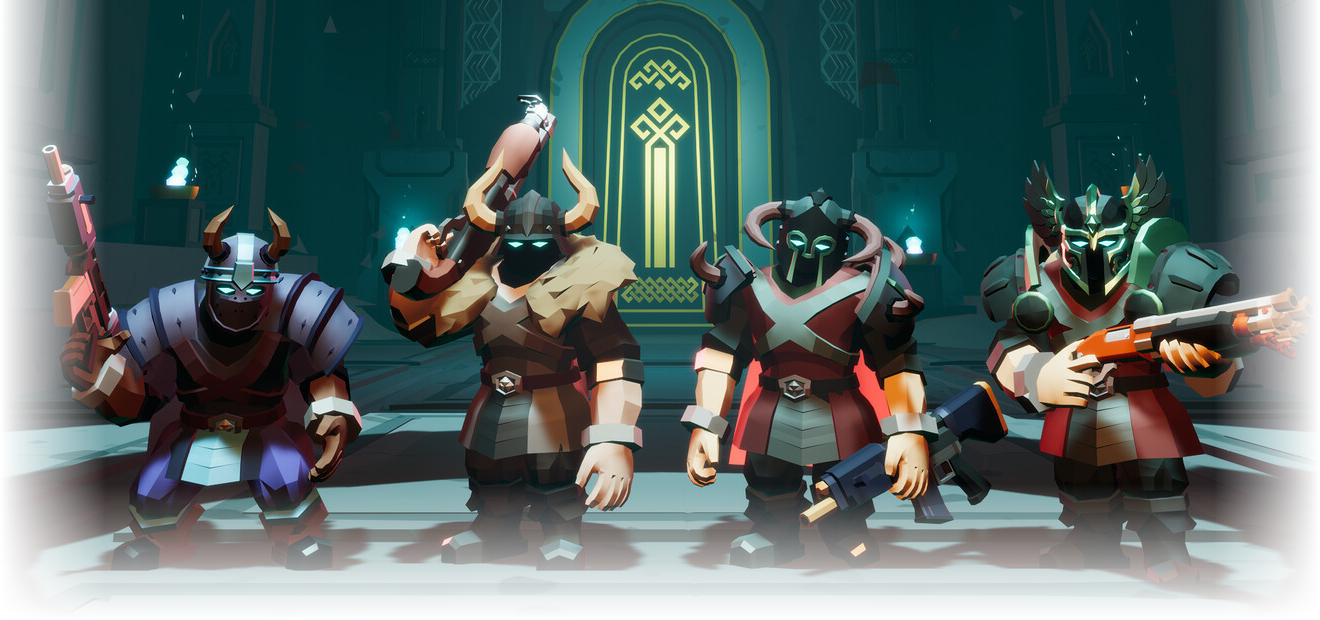
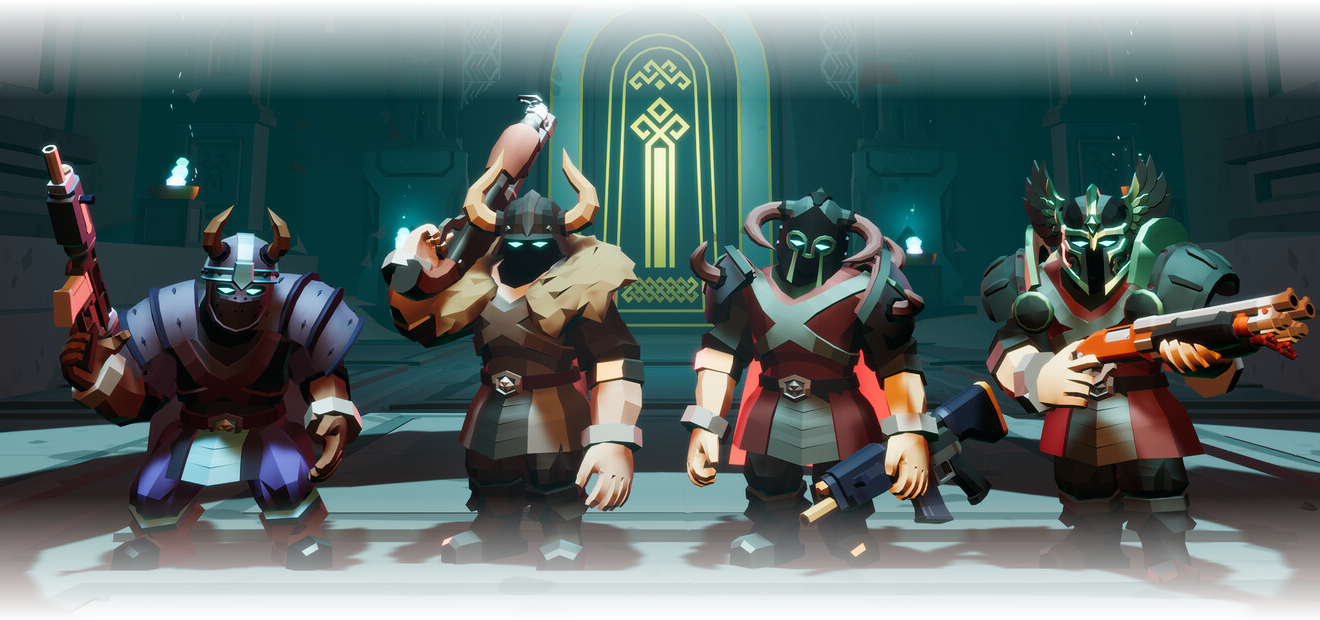
Keep the war band clear of the shield wall

Changed region(s): [[0.0, 0.0, 1.0, 0.9806]]

diff --git a/draft/style.css b/draft/style.css
@@ -48,13 +48,13 @@ p{margin:0 0 14px}
 .helm{position:absolute;top:64px;width:22vw;height:auto;z-index:1;opacity:.95;filter:drop-shadow(0 10px 20px rgba(0,0,0,.6))}
 .helm-l{left:-3vw}
 .helm-r{right:-3vw;transform:scaleX(-1)}
-.shield{position:absolute;width:32vw;height:32vw;z-index:2;filter:drop-shadow(0 14px 24px rgba(0,0,0,.55))}
+.shield{position:absolute;width:30vw;height:30vw;z-index:2;filter:drop-shadow(0 14px 24px rgba(0,0,0,.55))}
 .s1{left:-13vw;top:-9vw;animation:in-l .45s cubic-bezier(.2,.9,.3,1.15) both}
 .s2{right:-13vw;top:-9vw;animation:in-r .45s cubic-bezier(.2,.9,.3,1.15) both}
-.s3{left:-17vw;top:40%;animation:in-l .5s .05s cubic-bezier(.2,.9,.3,1.15) both}
-.s4{right:-17vw;top:40%;animation:in-r .5s .05s cubic-bezier(.2,.9,.3,1.15) both}
-.s5{left:-2vw;bottom:-17vw;animation:in-b .5s .1s cubic-bezier(.2,.9,.3,1.15) both}
-.s6{right:-2vw;bottom:-17vw;animation:in-b .5s .1s cubic-bezier(.2,.9,.3,1.15) both}
+.s3{left:-19vw;top:38%;animation:in-l .5s .05s cubic-bezier(.2,.9,.3,1.15) both}
+.s4{right:-19vw;top:38%;animation:in-r .5s .05s cubic-bezier(.2,.9,.3,1.15) both}
+.s5{left:-11vw;bottom:-19vw;animation:in-b .5s .1s cubic-bezier(.2,.9,.3,1.15) both}
+.s6{right:-11vw;bottom:-19vw;animation:in-b .5s .1s cubic-bezier(.2,.9,.3,1.15) both}
 @keyframes in-l{from{transform:translateX(-14vw)}to{transform:none}}
 @keyframes in-r{from{transform:translateX(14vw)}to{transform:none}}
 @keyframes in-b{from{transform:translateY(12vw)}to{transform:none}}
@@ -74,13 +74,13 @@ p{margin:0 0 14px}
   text-shadow:0 4px 0 #0a1214,0 14px 30px rgba(0,0,0,.6)}
 .tag{font-family:var(--ko);font-size:clamp(18px,2.2vw,28px);color:var(--gold2);margin:6px 0 14px;text-shadow:0 3px 0 #0a1214}
 .cta{display:flex;gap:14px;justify-content:center;flex-wrap:wrap}
-.warband{position:relative;z-index:4;display:block;width:min(66vw,940px);margin:-2vw auto 0;animation:rise .55s .1s ease-out both}
+.warband{position:relative;z-index:4;display:block;width:min(64vw,920px);margin:-2vw auto 0;animation:rise .55s .1s ease-out both}
 .warband img{width:100%}
 @keyframes rise{from{transform:translateY(24px);opacity:0}to{transform:none;opacity:1}}
 .flash{position:absolute;z-index:5;left:calc(50% + 17vw);bottom:17vw;width:110px;height:110px;border-radius:50%;pointer-events:none;mix-blend-mode:screen;opacity:0;
   background:radial-gradient(circle,#fff 0,var(--light) 22%,var(--fire) 48%,rgba(255,90,34,0) 72%);animation:flash 7s 2s infinite}
 @keyframes flash{0%,1.2%{opacity:0}1.6%{opacity:1}2.6%{opacity:.6}3.6%,100%{opacity:0}}
-.boss-video{position:absolute;z-index:6;left:50%;bottom:1vw;transform:translateX(-50%);width:13vw;aspect-ratio:1;border-radius:50%;overflow:hidden;border:7px solid var(--bronze);outline:5px solid var(--iron2);box-shadow:0 0 0 7px rgba(214,163,62,.5),0 16px 40px rgba(0,0,0,.6);background:#000}
+.boss-video{position:absolute;z-index:6;left:50%;bottom:0;transform:translateX(-50%);width:11vw;aspect-ratio:1;border-radius:50%;overflow:hidden;border:7px solid var(--bronze);outline:5px solid var(--iron2);box-shadow:0 0 0 7px rgba(214,163,62,.5),0 16px 40px rgba(0,0,0,.6);background:#000}
 .boss-video video{width:100%;height:100%;object-fit:cover}
 .marks{position:absolute;z-index:6;right:36px;bottom:28px;display:flex;gap:26px}
 .marks li{display:flex;flex-direction:column;align-items:center;font-family:var(--num);font-size:10px;letter-spacing:.2em;color:var(--bone2)}
@@ -229,7 +229,7 @@ p{margin:0 0 14px}
   .hero{padding-top:84px;min-height:0}
   .helm{display:none}
   .shield{width:64vw;height:64vw}
-  .s1{left:-34vw;top:-20vw}.s2{right:-34vw;top:-20vw}.s3,.s4{display:none}.s5{left:-22vw;bottom:-30vw}.s6{right:-22vw;bottom:-30vw}
+  .s1{left:-34vw;top:-20vw}.s2{right:-34vw;top:-20vw}.s3,.s4{display:none}.s5{left:-30vw;bottom:-34vw}.s6{right:-30vw;bottom:-34vw}
   .crossed{width:150vw;top:6%;opacity:.45}
   .plate{margin:0 16px;padding:16px 18px 20px;max-width:none}
   .title{font-size:clamp(38px,11.5vw,72px)}
